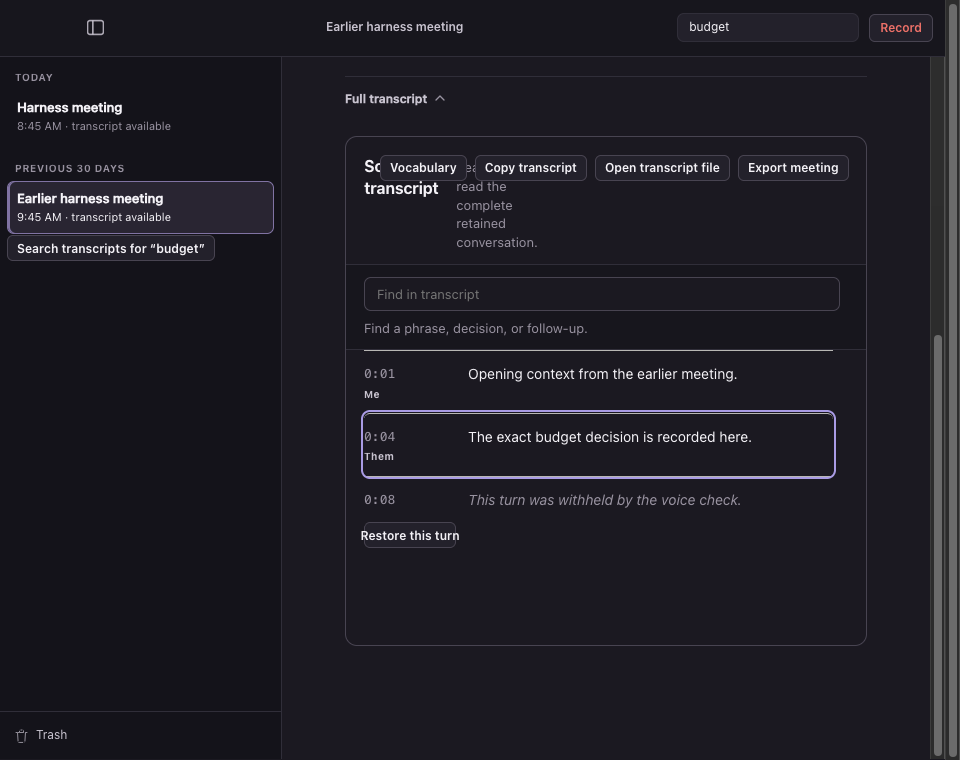
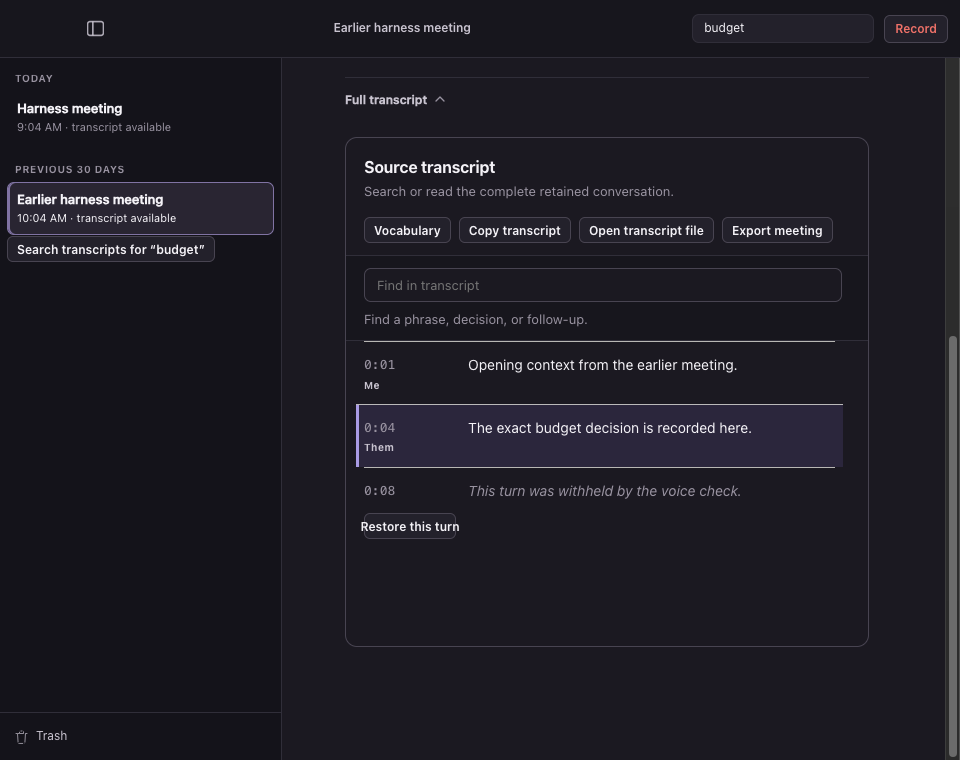
fix(search): keep matched passages visible and refuse unavailable sources

diff --git a/apps/desktop/ui/main.js b/apps/desktop/ui/main.js
@@ -466,7 +466,24 @@ function focusTranscriptSearchMatch() {
     const target = root.querySelector(`.transcript-workspace .transcript-line[data-turn-index="${targetTurnIndex}"]`);
     if (!target) return;
     target.focus({ preventScroll: true });
-    target.scrollIntoView({ behavior: prefersReducedMotion() ? "auto" : "smooth", block: "center" });
+    const behavior = prefersReducedMotion() ? "auto" : "smooth";
+    const workspace = target.closest(".transcript-workspace");
+    const documentScroller = target.closest(".doc-main");
+    const transcriptScroller = target.closest(".transcript-scroll");
+    // Scroll the two readers explicitly. scrollIntoView also moves the page
+    // at short window heights, hiding the app toolbar and sidebar context.
+    if (documentScroller && workspace) {
+      documentScroller.scrollTo({
+        top: documentScroller.scrollTop + workspace.getBoundingClientRect().top - documentScroller.getBoundingClientRect().top - 12,
+        behavior,
+      });
+    }
+    if (transcriptScroller) {
+      transcriptScroller.scrollTo({
+        top: transcriptScroller.scrollTop + target.getBoundingClientRect().top - transcriptScroller.getBoundingClientRect().top - (transcriptScroller.clientHeight - target.offsetHeight) / 2,
+        behavior,
+      });
+    }
   });
 }
 
@@ -2515,18 +2532,23 @@ async function openTranscriptSearchResult(handle) {
     return;
   }
   let transcriptMatch = transcriptSearchMatchLocator(response);
-  if (transcriptMatch && response.transcriptHandle) {
+  if (transcriptMatch) {
     try {
+      if (!response.transcriptHandle) throw new Error("Search transcript is unavailable");
       // start/end are scalar offsets, not audio time. This bounded handle
       // provides the digest that owned the locator before the reader refresh.
       const matchedTranscript = await invoke("library_open_transcript", { handle: response.transcriptHandle });
       if (openEpoch !== meetingOpenEpoch || searchEpoch !== transcriptSearchEpoch) return;
+      if (!matchedTranscript?.currentTranscriptSha256 || matchedTranscript.meetingId !== response.meetingId) {
+        throw new Error("Search transcript is unavailable");
+      }
       transcriptMatch = transcriptSearchMatchLocator(response, matchedTranscript.currentTranscriptSha256);
     } catch {
-      transcriptMatch = null;
+      if (openEpoch !== meetingOpenEpoch || searchEpoch !== transcriptSearchEpoch) return;
+      state.notice = "Transcript changed; search again.";
+      render();
+      return;
     }
-  } else {
-    transcriptMatch = null;
   }
   let row = state.transcriptSearchRows?.find((candidate) => candidate.meetingId === response.meetingId)
     || state.library?.rows?.find((candidate) => candidate.meetingId === response.meetingId);

diff --git a/apps/desktop/ui-harness/tauri-stub.js b/apps/desktop/ui-harness/tauri-stub.js
@@ -185,9 +185,9 @@
         results: [{ handle: "slow-search-handle", kind: "transcript", meetingId: "harness-meeting-2", text: "The exact budget decision is recorded here." }],
         message: "",
       };
-      if (normalized === "changed") return {
+      if (["changed", "unavailable"].includes(normalized)) return {
         state: "results",
-        results: [{ handle: "changed-search-handle", kind: "transcript", meetingId: "harness-meeting-2", text: "The exact budget decision is recorded here." }],
+        results: [{ handle: `${normalized}-search-handle`, kind: "transcript", meetingId: "harness-meeting-2", text: "The exact budget decision is recorded here." }],
         message: "",
       };
       return {
@@ -258,7 +258,7 @@
         : { state: "retained", message: "Audio retained on this Mac." },
       capturePauses: null,
     }),
-    library_open_transcript: () => (searchMode && openedSearchMeeting ? {
+    library_open_transcript: () => (searchResultHandle === "unavailable-search-handle" ? { state: "unavailable", currentTranscriptSha256: null, turns: [] } : searchMode && openedSearchMeeting ? {
       meetingId: "harness-meeting-2",
       state: "available",
       currentTranscriptSha256: searchResultHandle === "changed-search-handle" && ++searchTranscriptReadCount > 1

diff --git a/apps/desktop/ui/styles.css b/apps/desktop/ui/styles.css
@@ -619,6 +619,13 @@ h3 {
   border-top: 1px solid rgb(228 228 222 / 78%);
 }
 
+.transcript-line-target {
+  margin-inline: calc(-1 * var(--space-8));
+  padding-inline: var(--space-8);
+  background: var(--evidence);
+  box-shadow: inset 3px 0 0 var(--accent);
+}
+
 .transcript-line-meta {
   display: grid;
   align-content: start;
@@ -1075,6 +1082,7 @@ h3 {
 
 .transcript-workspace-toolbar {
   display: flex;
+  flex-wrap: wrap;
   align-items: flex-start;
   justify-content: space-between;
   gap: var(--space-16);
@@ -1083,6 +1091,10 @@ h3 {
 }
 
 .transcript-workspace .transcript-heading {
+  flex: 1 1 240px;
+  flex-direction: column;
+  align-items: flex-start;
+  gap: var(--space-4);
   min-width: 0;
   margin: 0;
 }
@@ -1093,13 +1105,14 @@ h3 {
 }
 
 .transcript-workspace .transcript-actions {
-  flex: 0 0 auto;
+  flex: 0 1 auto;
   margin: 0;
 }
 
 .transcript-workspace-actions {
   display: flex;
-  flex: 0 0 auto;
+  flex: 0 1 auto;
+  max-width: 100%;
   align-items: flex-start;
   flex-wrap: wrap;
   justify-content: flex-end;
@@ -2256,6 +2269,10 @@ h3 {
 
   .transcript-heading p {
     text-align: left;
+  }
+
+  .transcript-workspace .transcript-heading {
+    flex-basis: auto;
   }
 
   .meeting-page > .text-button {

diff --git a/apps/desktop/ui-harness/search.js b/apps/desktop/ui-harness/search.js
@@ -60,6 +60,11 @@ changed?.querySelector('[data-action="open-search-result"]')?.click();
 await sleep(120);
 step("a changed transcript digest refuses the old locator", !q(".transcript-line-target") && /Transcript changed; search again\./.test(q("#toast-notice")?.textContent || ""));
 
+const unavailable = await searchCurrentQuery("unavailable");
+unavailable?.querySelector('[data-action="open-search-result"]')?.click();
+await sleep(120);
+step("a refused bound transcript keeps the results and asks for a new search", Boolean(q(".transcript-search-results")) && !q(".transcript-line-target") && /Transcript changed; search again\./.test(q("#toast-notice")?.textContent || ""));
+
 const match = await searchCurrentQuery("budget");
 const openMatch = match?.querySelector('[data-action="open-search-result"]');
 step("cross-meeting retained match is offered", Boolean(openMatch));
